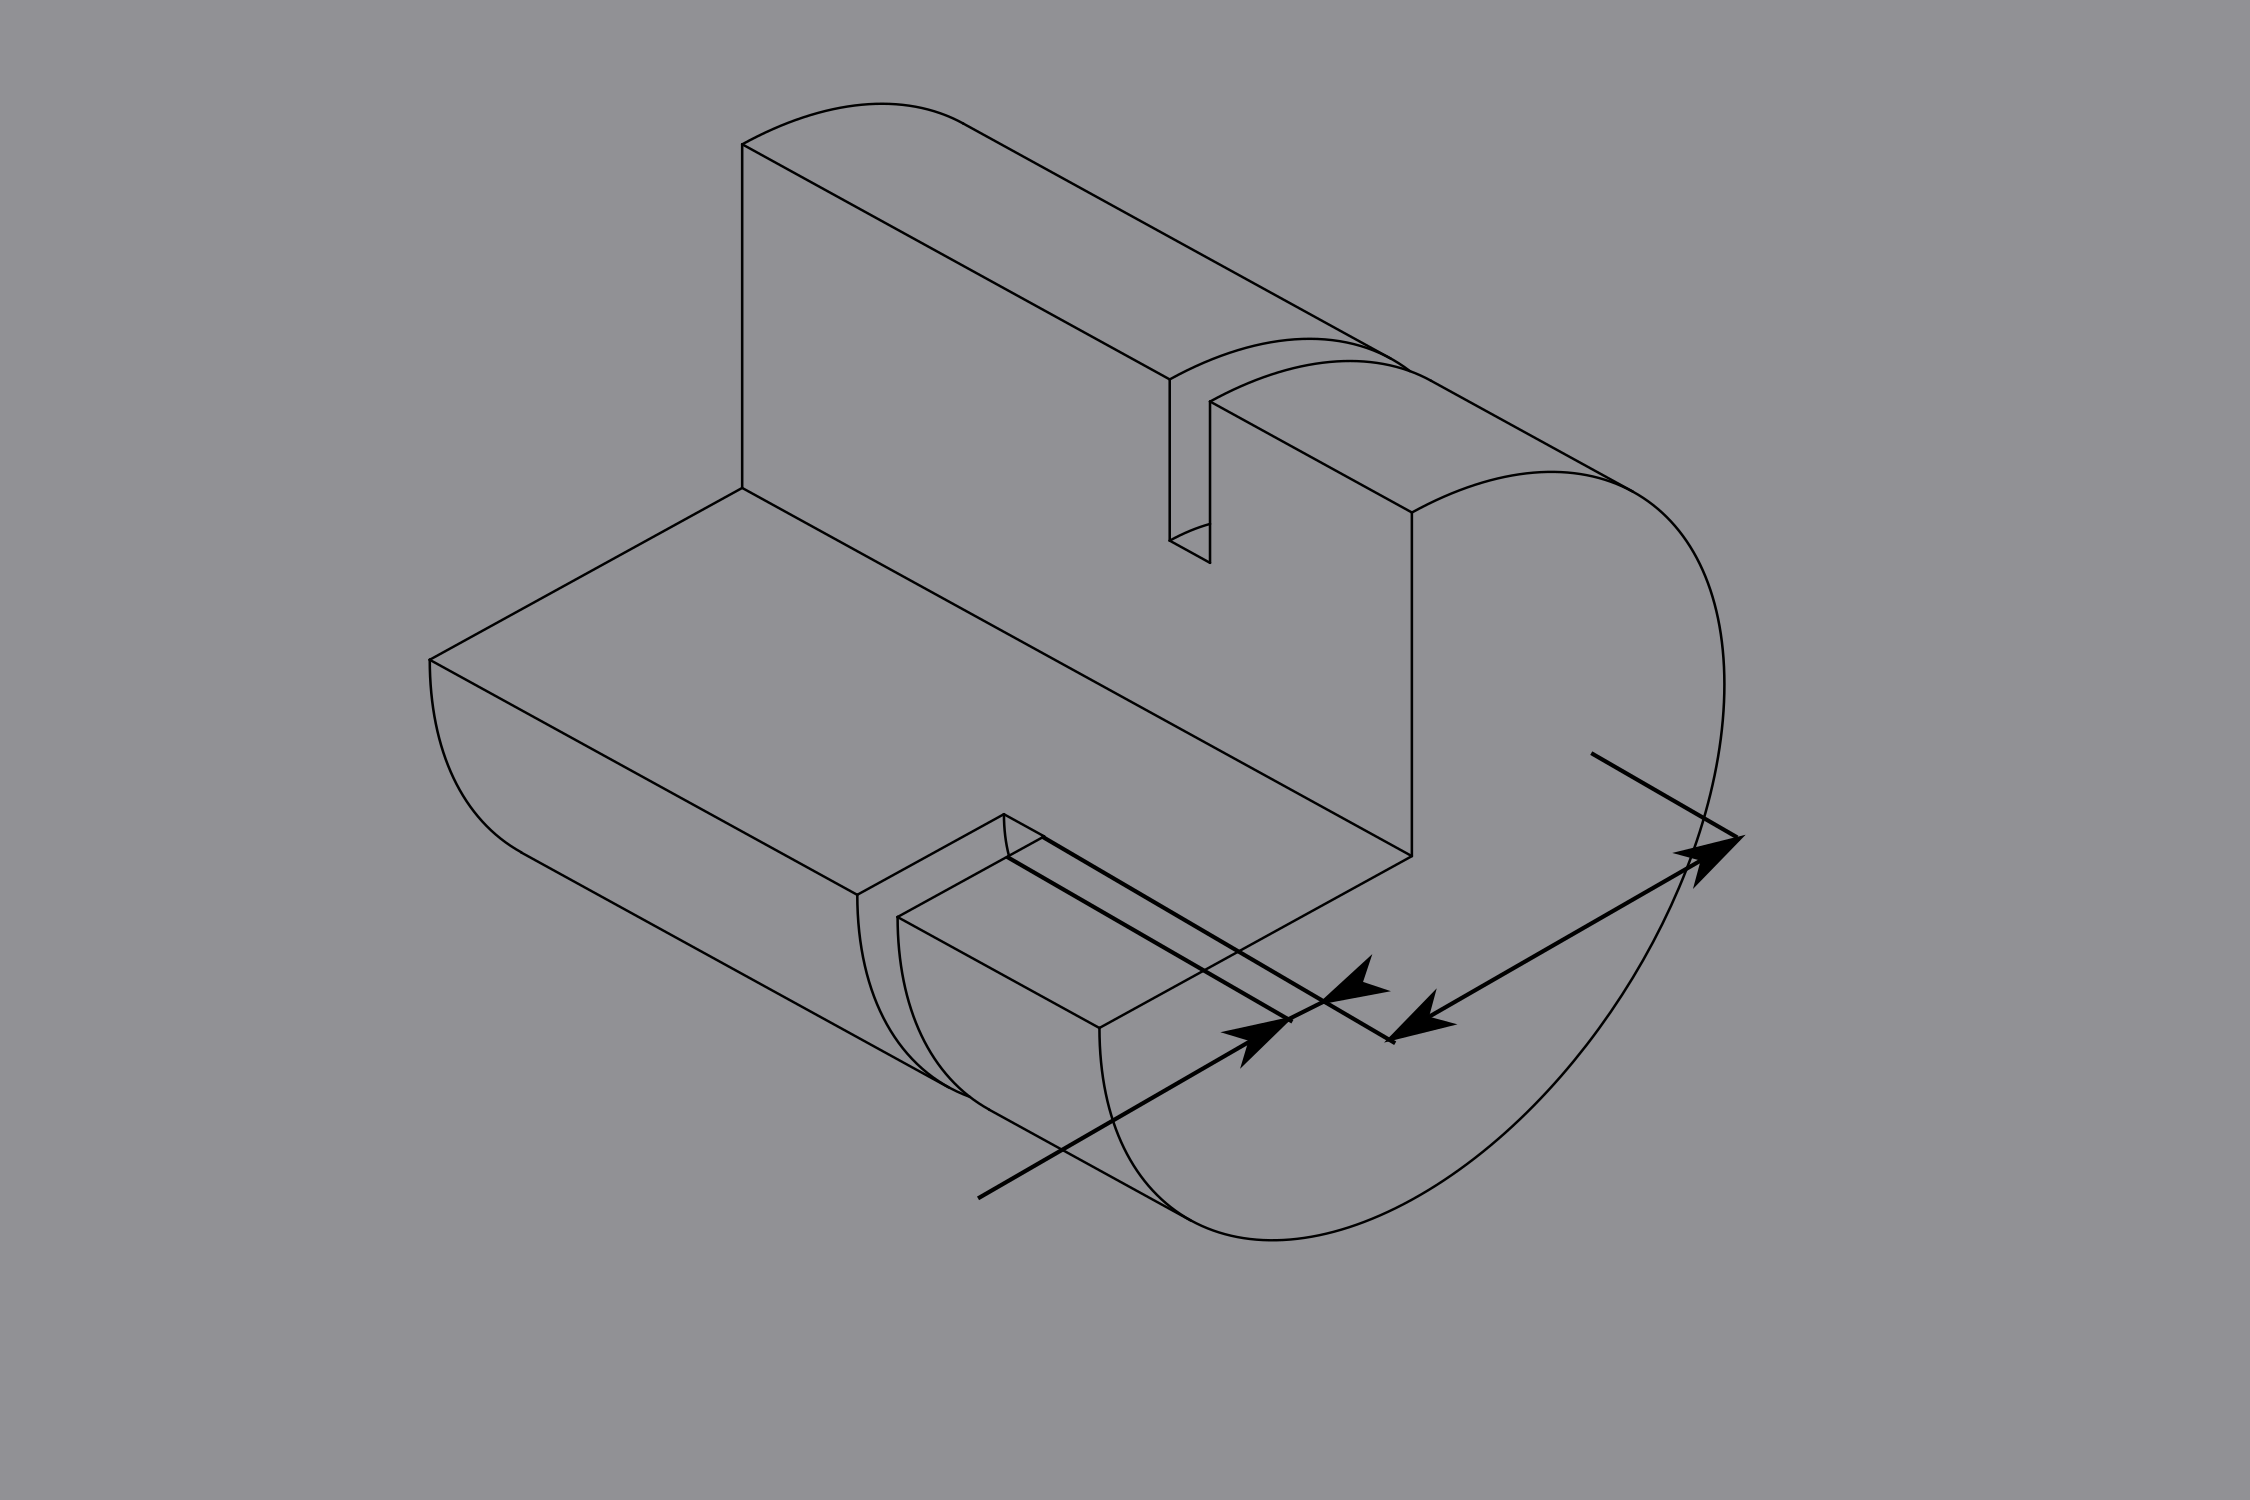
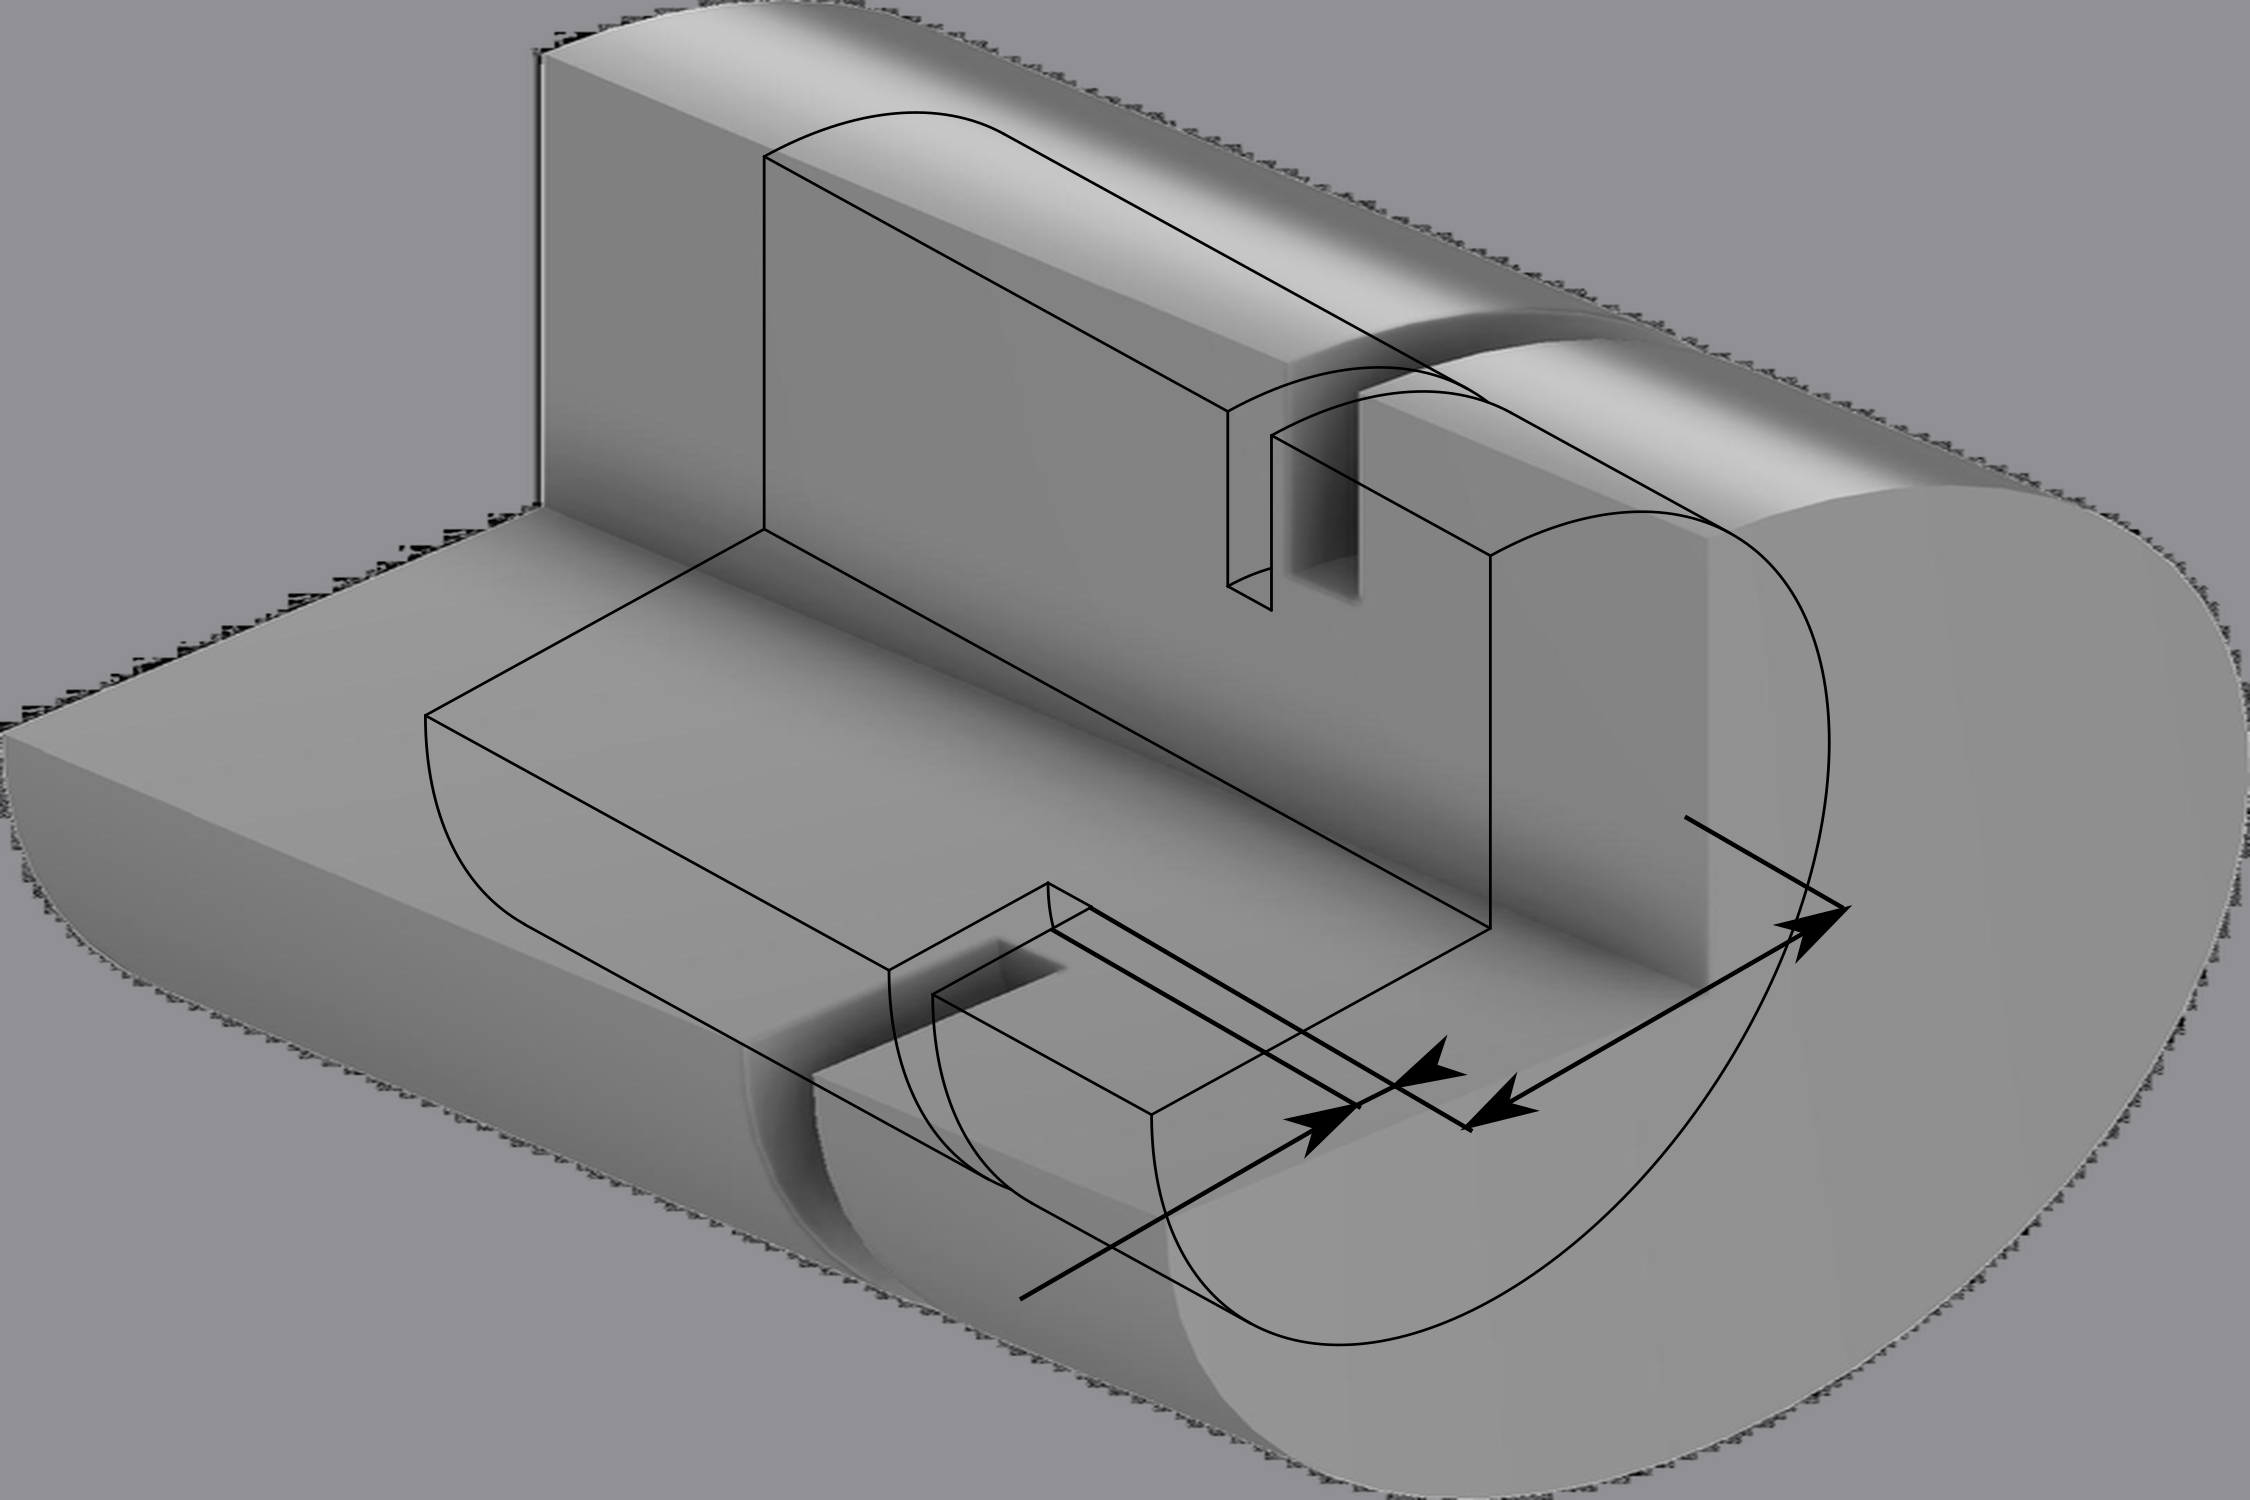
All 8 operations: 3D shading + arrowheads via librsvg pre-rendered PNGs
All diagrams now pre-rendered with librsvg (full SVG spec, supports
<marker> arrowheads) and committed as PNGs.

Layers 0-5 (turning/boring/facing/chamfer/radius/threading):
  Rendered from LatheMacro_vector.svg at 1332x1029 (1.5x of 888x686).
  Full 3D gradient shading + arrowheads on dimension lines.

Layers 6-7 (groove/drill):
  Composite approach: 3D model PNG (hard threshold + LANCZOS) composited
  with librsvg-rendered dimension lines (arrowheads) as separate pass.
  Rendered at 2250x1500 (1.5x of 1500x1000).

DiagramWidget simplified: single pixmap path for all 8 ops.
SVG renderer kept only as fallback if PNGs missing.

diff --git a/user_tabs/lathe_macros/lathe_macros.py b/user_tabs/lathe_macros/lathe_macros.py
@@ -33,10 +33,17 @@ TAB_DIR    = os.path.dirname(os.path.abspath(__file__))
 SVG_FILE   = os.path.join(TAB_DIR, 'LatheMacro_vector.svg')
 STATE_FILE = os.path.join(TAB_DIR, 'state.json')
 
-# Pre-rendered PNGs for groove/drill (produced by librsvg — full marker support)
-DG_PNGS = {
-    'groove': os.path.join(TAB_DIR, 'groove_rendered.png'),
-    'drill':  os.path.join(TAB_DIR, 'drill_rendered.png'),
+# Pre-rendered PNGs for all 8 operations (librsvg — arrowheads + full SVG spec)
+# Format: {op_key: (filename, label_coord_w, label_coord_h)}
+OP_PNGS = {
+    'turning':   ('turning_rendered.png',    888,  686),
+    'boring':    ('boring_rendered.png',     888,  686),
+    'facing':    ('facing_rendered.png',     888,  686),
+    'chamfer':   ('chamfer_rendered.png',    888,  686),
+    'radius':    ('radius_rendered.png',     888,  686),
+    'threading': ('threading_rendered.png',  888,  686),
+    'groove':    ('groove_rendered.png',    1500, 1000),
+    'drill':     ('drill_rendered.png',     1500, 1000),
 }
 
 # Spinbox label positions in the SVG's 888×686 coordinate space.
@@ -253,37 +260,36 @@ def _make_help_widget(op_key):
 class DiagramWidget(QWidget):
     """Renders one layer of Andy Pugh's LatheMacro_vector.svg with labels."""
 
-    SVG_W, SVG_H    = 888,  686    # vector SVG viewBox
-    SVG_DG_W, SVG_DG_H = 1500, 1000  # groove/drill PNG coordinate space
     SVG_BG = QColor(145, 145, 149)
-    _shared_renderer = None
+    _shared_renderer = None   # fallback only
 
     def __init__(self, op_key, layer_idx, parent=None):
         super().__init__(parent)
         self._layer_id = f'layer{layer_idx}' if layer_idx >= 0 else None
-        self._use_dg   = op_key in DG_PNGS
-        self._op_key   = op_key
         self._labels   = LABELS.get(op_key, [])
         self._pixmap   = None
+        self._png_w    = 888
+        self._png_h    = 686
         self.setMinimumSize(100, 100)
         self.setSizePolicy(QSizePolicy.Fixed, QSizePolicy.Expanding)
         self.setStyleSheet('background: rgb(145,145,149);')
         self.setMouseTracking(True)
         self._hover = ''
-        if self._use_dg:
-            png = DG_PNGS.get(op_key, '')
-            if os.path.exists(png):
-                self._pixmap = QPixmap(png)
-        elif HAS_SVG and DiagramWidget._shared_renderer is None and os.path.exists(SVG_FILE):
+        info = OP_PNGS.get(op_key)
+        if info:
+            fname, self._png_w, self._png_h = info
+            p = os.path.join(TAB_DIR, fname)
+            if os.path.exists(p):
+                self._pixmap = QPixmap(p)
+        if self._pixmap is None and HAS_SVG and \
+                DiagramWidget._shared_renderer is None and os.path.exists(SVG_FILE):
             DiagramWidget._shared_renderer = QSvgRenderer(SVG_FILE)
 
     def mouseMoveEvent(self, event):
         rect = self._render_rect()
         if rect.contains(QPointF(event.pos())):
-            sw = self.SVG_DG_W if self._use_dg else self.SVG_W
-            sh = self.SVG_DG_H if self._use_dg else self.SVG_H
-            sx = int((event.x() - rect.x()) / rect.width()  * sw)
-            sy = int((event.y() - rect.y()) / rect.height() * sh)
+            sx = int((event.x() - rect.x()) / rect.width()  * self._png_w)
+            sy = int((event.y() - rect.y()) / rect.height() * self._png_h)
             self._hover = f'{sx}, {sy}'
         else:
             self._hover = ''
@@ -293,9 +299,7 @@ class DiagramWidget(QWidget):
         super().resizeEvent(event)
         h = event.size().height()
         if h > 20:
-            sw = self.SVG_DG_W if self._use_dg else self.SVG_W
-            sh = self.SVG_DG_H if self._use_dg else self.SVG_H
-            target_w = int(h * sw / sh)
+            target_w = int(h * self._png_w / self._png_h)
             if abs(self.width() - target_w) > 1:
                 self.setFixedWidth(target_w)
 
@@ -304,9 +308,7 @@ class DiagramWidget(QWidget):
         margin = 4
         aw = self.width()  - 2 * margin
         ah = self.height() - 2 * margin
-        sw = self.SVG_DG_W if self._use_dg else self.SVG_W
-        sh = self.SVG_DG_H if self._use_dg else self.SVG_H
-        svg_aspect = sw / sh
+        svg_aspect = self._png_w / self._png_h
         if aw / ah > svg_aspect:
             rw = ah * svg_aspect
             rh = ah
@@ -326,47 +328,25 @@ class DiagramWidget(QWidget):
 
         rect = self._render_rect()
 
-        if self._layer_id is None:
-            painter.setPen(QColor('#777'))
-            painter.setFont(QFont('Sans', 11))
-            painter.drawText(rect.toRect(), Qt.AlignCenter,
-                             'No diagram available')
-
-        elif self._use_dg and self._pixmap and not self._pixmap.isNull():
-            # Groove/drill: pre-rendered PNG (librsvg) — smooth edges + arrowheads
+        if self._pixmap and not self._pixmap.isNull():
             painter.setRenderHint(QPainter.SmoothPixmapTransform)
             painter.drawPixmap(rect.toRect(), self._pixmap)
-            sw, sh = self.SVG_DG_W, self.SVG_DG_H
             font = QFont('Sans', 8, QFont.Bold)
             painter.setFont(font)
             fm = painter.fontMetrics()
             for (sx, sy), text in self._labels:
-                wx = rect.left() + (sx / sw) * rect.width()
-                wy = rect.top()  + (sy / sh) * rect.height()
+                wx = rect.left() + (sx / self._png_w) * rect.width()
+                wy = rect.top()  + (sy / self._png_h) * rect.height()
                 tw = fm.horizontalAdvance(text) + 6
                 th = fm.height() + 2
                 bg = QRectF(wx - tw/2, wy - th/2, tw, th)
                 painter.fillRect(bg, QColor(255, 255, 180, 220))
                 painter.setPen(QPen(QColor('#111')))
                 painter.drawText(bg, Qt.AlignCenter, text)
-
-        elif not self._use_dg and DiagramWidget._shared_renderer and \
-                DiagramWidget._shared_renderer.isValid() and \
+        elif DiagramWidget._shared_renderer and \
+                DiagramWidget._shared_renderer.isValid() and self._layer_id and \
                 DiagramWidget._shared_renderer.elementExists(self._layer_id):
-            r = DiagramWidget._shared_renderer
-            r.render(painter, self._layer_id, rect)
-            font = QFont('Sans', 8, QFont.Bold)
-            painter.setFont(font)
-            fm = painter.fontMetrics()
-            for (sx, sy), text in self._labels:
-                wx = rect.left() + (sx / self.SVG_W) * rect.width()
-                wy = rect.top()  + (sy / self.SVG_H) * rect.height()
-                tw = fm.horizontalAdvance(text) + 6
-                th = fm.height() + 2
-                bg = QRectF(wx - tw/2, wy - th/2, tw, th)
-                painter.fillRect(bg, QColor(255, 255, 180, 220))
-                painter.setPen(QPen(QColor('#111')))
-                painter.drawText(bg, Qt.AlignCenter, text)
+            DiagramWidget._shared_renderer.render(painter, self._layer_id, rect)
         else:
             painter.setPen(QColor('#666'))
             painter.drawText(event.rect(), Qt.AlignCenter, 'Diagram unavailable')